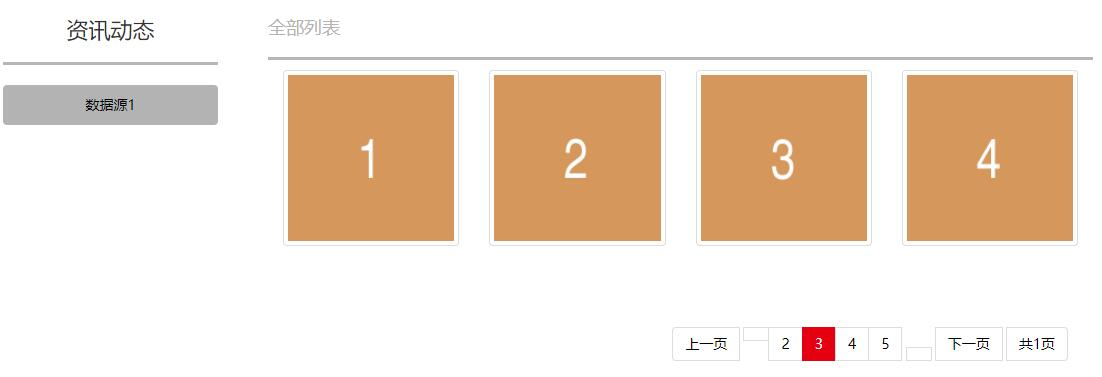
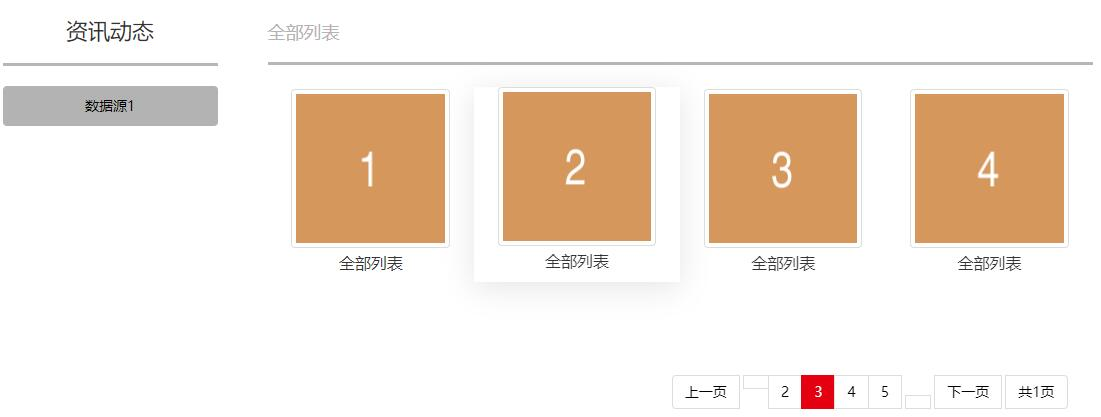
添加标题

diff --git a/src/main/resources/template/newsListStyleBrowser.html b/src/main/resources/template/newsListStyleBrowser.html
@@ -25,33 +25,14 @@
             <div class="information-list-right-header">
                 <h3>全部列表</h3>
             </div>
-            <!--更新部分-->
             <div class="row">
-                <div class="col-sm-3" th:each="article:${dataList}">
+                <div class="col-sm-3 information-image-list" th:each="article:${dataList}">
                     <a href="javascript:;" th:href="@{/${contentURI}/{contentSerial}(contentSerial=${article.serial})}">
                         <img class="img-responsive center-block img-thumbnail" res:src="${article.thumbUri}"
                              src="http://placehold.it/300x300/d5975c/ffffff?text=1">
+                        <p class="text-center information-image-text">全部列表</p>
                     </a>
                 </div>
-                <div class="col-sm-3" th:remove="all">
-                    <a href="javascript:;">
-                        <img class="img-responsive center-block img-thumbnail"
-                             src="http://placehold.it/300x300/d5975c/ffffff?text=2">
-                    </a>
-                </div>
-                <div class="col-sm-3" th:remove="all">
-                    <a href="javascript:;">
-                        <img class="img-responsive center-block img-thumbnail"
-                             src="http://placehold.it/300x300/d5975c/ffffff?text=3">
-                    </a>
-                </div>
-                <div class="col-sm-3" th:remove="all">
-                    <a href="javascript:;">
-                        <img class="img-responsive center-block img-thumbnail"
-                             src="http://placehold.it/300x300/d5975c/ffffff?text=4">
-                    </a>
-                </div>
-                <!--更新部分-->
             </div>
         </div>
         <div class="col-sm-12 information-list-bottom">
